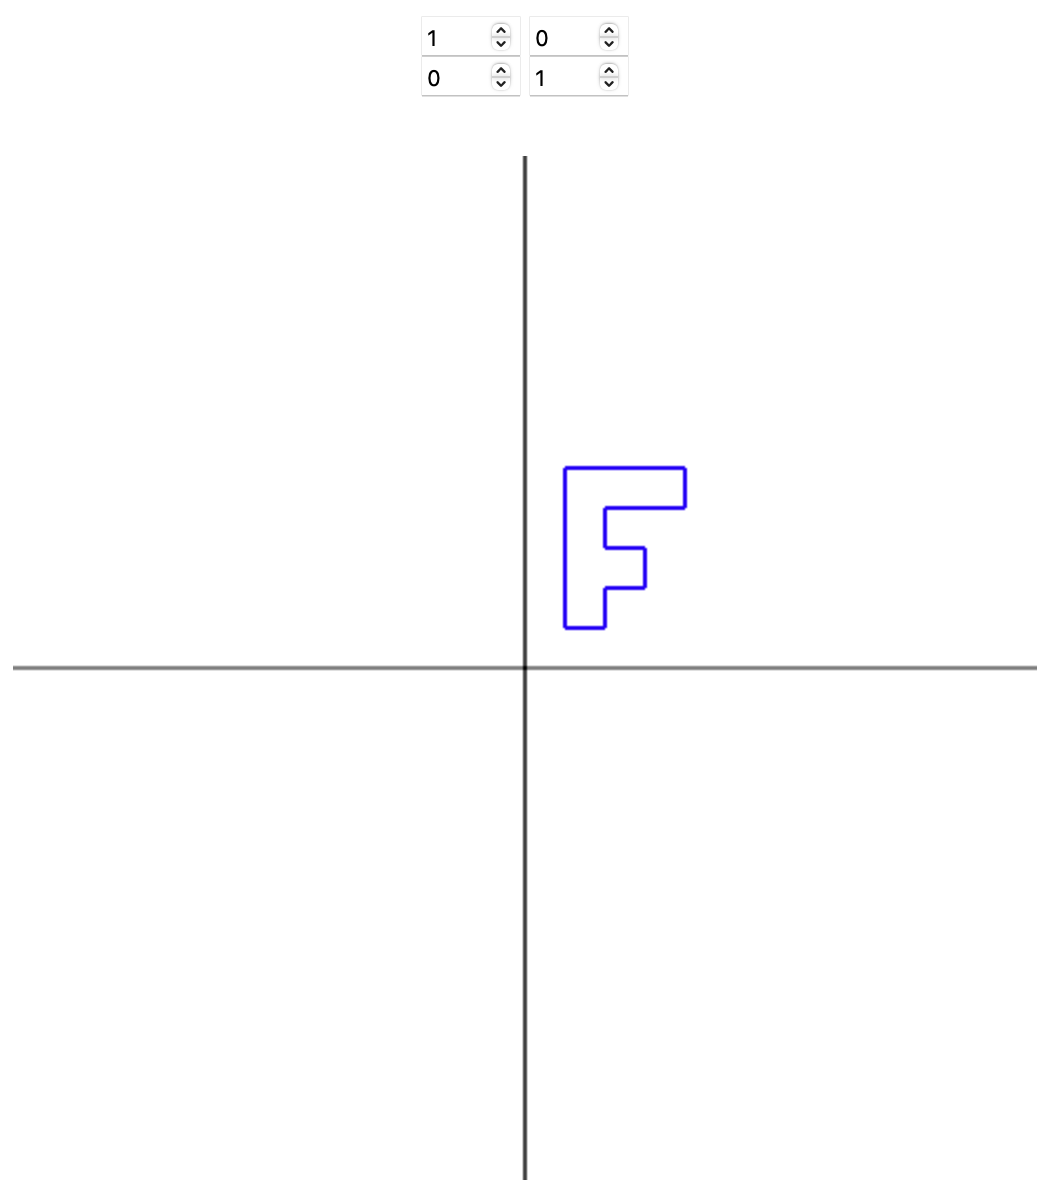
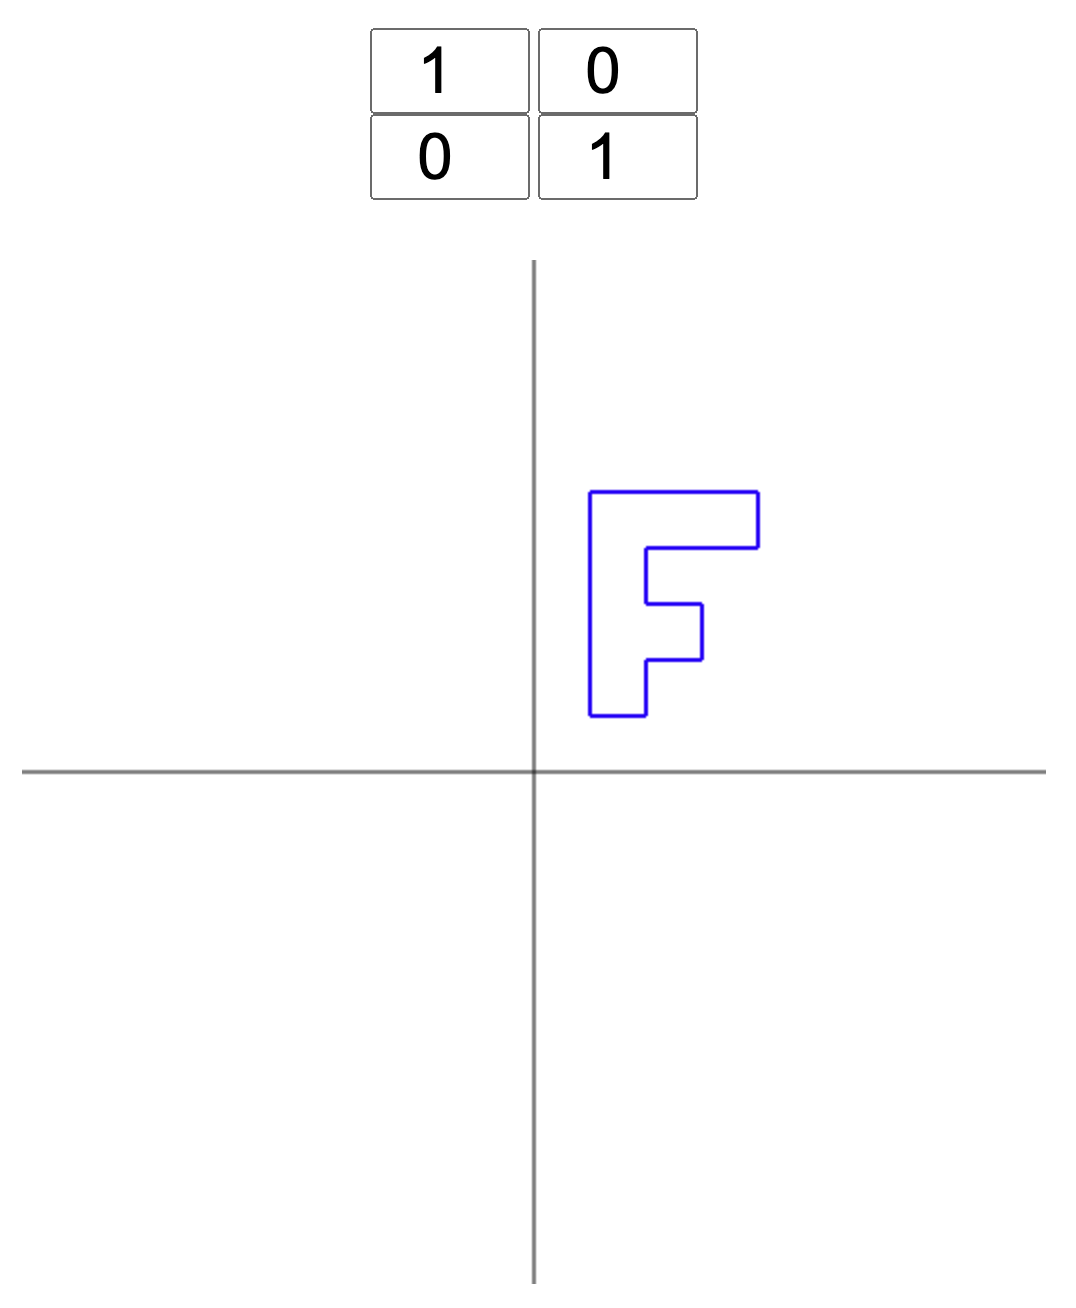
update figure scaling and screenshots

Changed region(s): [[0.0305, 0.0, 0.9752, 0.9867]]

diff --git a/index.js b/index.js
@@ -11,7 +11,7 @@ var F = [
     new vec(1, 1)
 ]
 
-var scale = 30; // scaling of the shape
+var scale = 28; // scaling of the shape
 var can, ctx, halfWidth, halfHeight;
 
 var a11, a12, a21, a22
